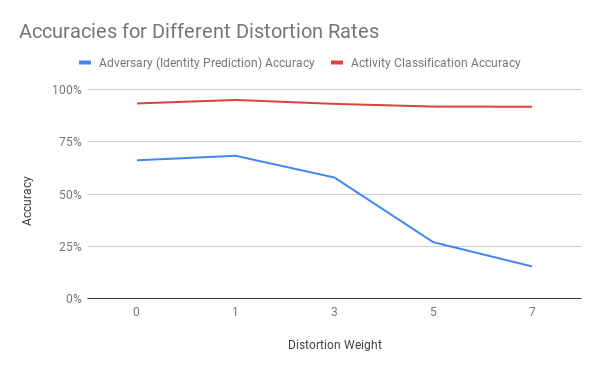
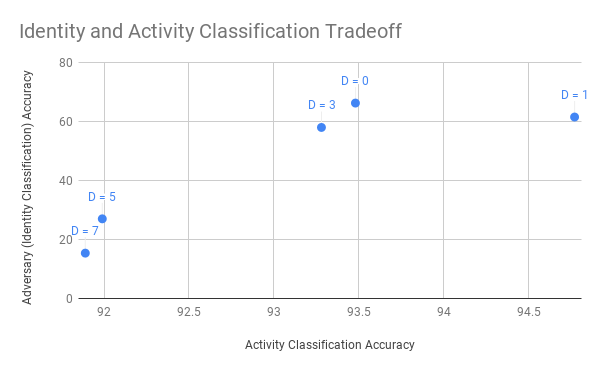
Updated

diff --git a/index.html b/index.html
@@ -29,11 +29,16 @@
             <!-- Goal -->
             <h2>Introduction/Background/Motivation</h2>
 
-            <h4>What did you try to do? What problem did you try to solve? Articulate your objectives using absolutely no jargon</h4>
+            <h4>What did you try to do? What problem did you try to solve? Articulate your objectives using absolutely no jargon.</h4>
             <p>In our project, we attempted to reproduce the work of a paper on OpenReview.net entitled <i><a href="https://openreview.net/forum?id=H1xAH2RqK7&fbclid=IwAR16FmCPpcFdWT0ZF3Qpg4x_bCVlbPMVe290sa4SQ6KrsHp8zmxG4aHU2PE" target="_blank">Generative Adversarial Models for Learning Private and Fair Representations</a></i>,
               which is currently under double-blind review for ICLR19.
               This paper explores using a generative adversarial architecture to create a decorrelation mechanism that obfuscates a sensitive variable while still preserving the utility of the original data.
-              In our work, we replicated the architecture described in the paper and focus on reproducing the results for the <a href="https://archive.ics.uci.edu/ml/datasets/human+activity+recognition+using+smartphones" target="_blank">UCI Human Activity Recognition (HAR) dataset.</a></p>
+              In our work, we replicated the architecture described in the paper
+              and focus on reproducing the results for the
+              <a href="https://archive.ics.uci.edu/ml/datasets/human+activity+recognition+using+smartphones" target="_blank">UCI Human Activity Recognition (HAR) dataset.</a>
+              The objective was to investigate the reproducibility of the results of
+              the paper to support the validity of the paper.
+            </p>
             <br>
 
             <h4>How is it done today, and what are the limits of current practice?</h4>
@@ -65,8 +70,8 @@
                   has also become increasingly important to machine learning
                   communities. We are helping in this endeavor by recreating the
                   results from this paper. Active engagement by students is one
-                  of the best ways to push academics and research to publish datasets
-                  and code and prioritize making their published work reproducible.
+                  of the best ways to push academics and researchers to publish datasets
+                  and code and prioritize reproducibility and reliability in their published work.
                 </p>
             <br>
 
@@ -207,10 +212,12 @@
 
             <div class="vis">
                 <figure>
+                    <img style="height: 300px;" alt="" src="images/accuracy_distortion.png">
                     <img style="height: 300px;" alt="" src="images/distortion_rate_tradeoff.png">
                     <figcaption>Test</figcaption>
                 </figure>
             </div>
+
 
             <h5>Discussion</h5>
             about similarity of our results to the paper's
